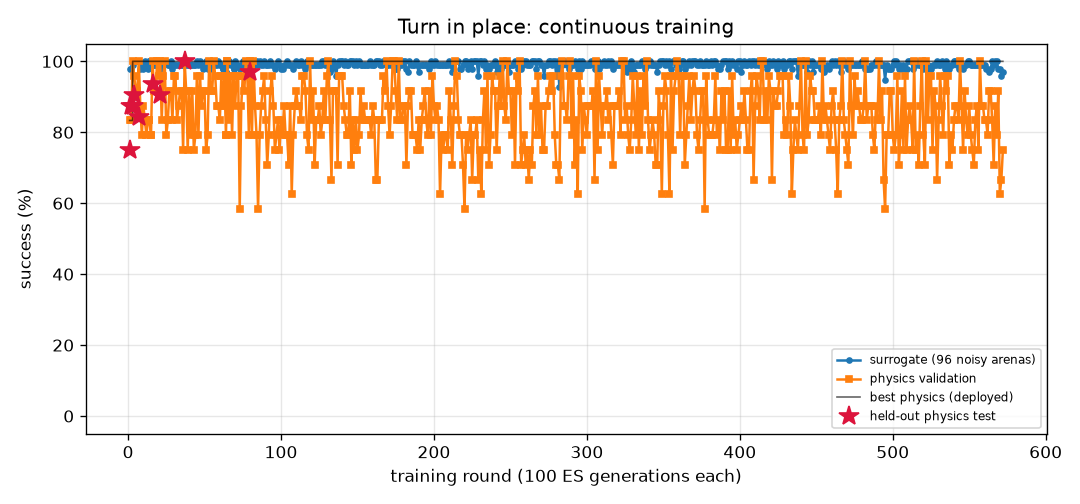
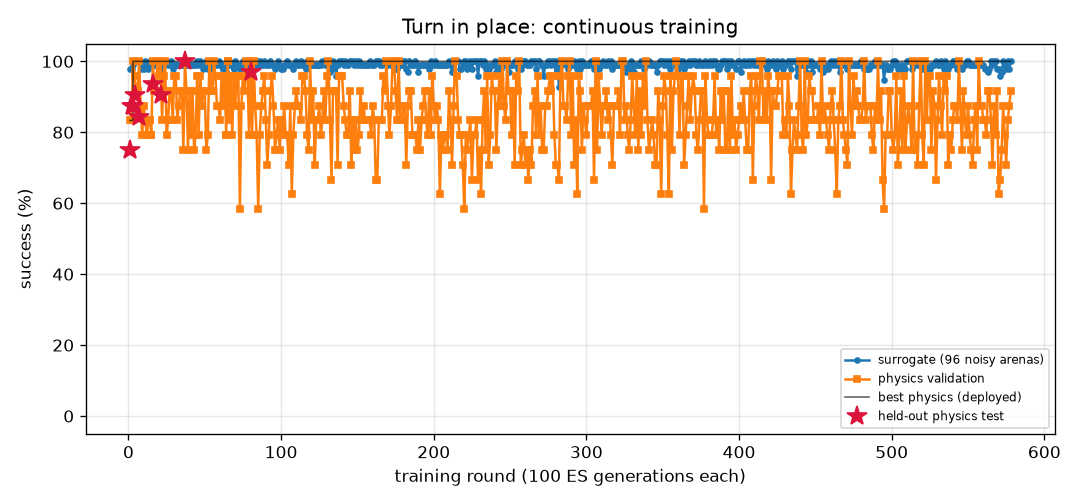
FlyLab: continuous training progress
- walk_forward: optimal, physics val 100% of 24, round 145
- turn: optimal, physics val 100% of 24, round 578
- goto: optimal, physics val 100% of 24, round 132
- odor_seek: optimal, physics val 100% of 24, round 123
- odor_avoid: optimal, physics val 100% of 24, round 560
- light_seek: optimal, physics val 100% of 24, round 316
- light_avoid: optimal, physics val 100% of 24, round 292

diff --git a/projects/09_flylab/training/turn/REPORT.md b/projects/09_flylab/training/turn/REPORT.md
@@ -1,14 +1,14 @@
 # Turn in place (`turn`) — training report
 
-*Auto-generated by `train_brains.py`, last updated 2026-10-20T16:01:26.*
+*Auto-generated by `train_brains.py`, last updated 2026-10-20T19:19:42.*
 
 ![curve](curve.png)
 
 | | |
 |---|---|
-| rounds | 572 |
-| ES generations | 57200 |
-| physics runs | 13974 |
+| rounds | 578 |
+| ES generations | 57800 |
+| physics runs | 14118 |
 | status | **optimal** |
 | best brain | round 80: physics validation **100%** on 24 arenas, surrogate 100% |
 | held-out physics test | **97%** on 32 unseen arenas (95% CI 84%-99%) (errors: [1.6, 3.3, 6.3, 3.7, 1.1, 0.4, 2.4, 2.9, 0.1, 2.6, 0.5, 2.7, 1.5, 3.1, 4.5, 0.2, 0.5, 1.1, 2.0, 4.4, 2.8, 3.2, 0.3, 2.2, 0.5, 3.0, 0.3, 5.4, 0.4, 1.0, 4.7, 10.7]) |
@@ -17,12 +17,6 @@ Physics error per arena: deg from target heading (< 20 = success).
 
 | round | level | gens | sigma | surrogate | physics val | val errors | test | note |
 |---:|---:|---:|---:|---:|---:|---|---:|---|
-| 533 | 3 | 53300 | 0.024 | 99% | 79% | [5.1, 3.1, 2.2, 1.6, 2.3, 2.9, 5.5, 8.7, 4.7, 13.9, 4.5, 1.3, 0.3, 2.6, 4.9, 0.1, 0.5, 2.2, 0.2, 0.3, 6.0, 5.1, 6.1, 6.6] |  |  |
-| 534 | 3 | 53400 | 0.025 | 98% | 96% | [9.8, 10.5, 4.6, 5.7, 4.6, 0.0, 1.8, 1.0, 1.3, 2.3, 1.5, 3.1, 0.2, 2.9, 1.8, 5.1, 3.2, 2.7, 3.3, 3.5, 8.6, 1.0, 0.6, 7.2] |  |  |
-| 535 | 3 | 53500 | 0.025 | 100% | 92% | [3.4, 6.8, 1.5, 0.7, 0.6, 1.9, 4.6, 0.3, 3.7, 0.1, 2.8, 0.7, 0.8, 3.8, 2.6, 0.0, 0.5, 1.4, 0.1, 0.9, 3.1, 2.1, 2.8, 2.6] |  |  |
-| 536 | 3 | 53600 | 0.024 | 99% | 96% | [5.5, 2.8, 1.7, 1.2, 15.9, 14.3, 2.8, 7.4, 6.2, 9.6, 3.8, 0.2, 1.3, 1.5, 3.4, 13.3, 0.1, 4.3, 13.2, 13.0, 3.0, 2.1, 5.4, 3.9] |  | restart from best |
-| 537 | 3 | 53700 | 0.024 | 98% | 71% | [8.8, 9.6, 6.6, 2.9, 1.5, 2.7, 4.9, 0.0, 3.5, 0.1, 2.7, 3.3, 2.5, 4.2, 3.1, 0.3, 1.7, 0.0, 1.4, 1.1, 101.2, 0.1, 3.3, 3.0] |  |  |
-| 538 | 3 | 53800 | 0.025 | 99% | 79% | [5.9, 4.0, 4.1, 0.8, 0.8, 0.6, 4.6, 6.2, 4.8, 1.0, 4.4, 1.7, 0.8, 2.7, 5.8, 2.5, 1.1, 1.4, 0.8, 0.1, 2.3, 0.1, 4.7, 4.9] |  |  |
 | 539 | 3 | 53900 | 0.025 | 99% | 75% | [3.4, 8.3, 5.6, 1.1, 2.0, 2.6, 4.8, 3.9, 3.4, 1.0, 4.2, 0.9, 1.8, 1.4, 4.2, 1.5, 1.2, 0.2, 0.7, 0.8, 5.2, 2.1, 3.7, 3.9] |  |  |
 | 540 | 3 | 54000 | 0.025 | 100% | 83% | [2.4, 3.4, 6.3, 1.3, 2.4, 0.9, 7.5, 5.6, 8.3, 1.4, 5.9, 3.2, 0.6, 0.7, 6.0, 4.4, 3.4, 5.7, 3.6, 3.6, 1.4, 2.3, 7.0, 3.3] |  | restart from best |
 | 541 | 3 | 54100 | 0.024 | 100% | 88% | [2.4, 7.1, 5.8, 4.2, 1.1, 1.3, 3.2, 2.9, 5.9, 0.4, 4.2, 0.1, 1.7, 1.9, 2.3, 0.7, 0.4, 0.3, 0.3, 1.3, 3.5, 0.4, 5.9, 1.4] |  |  |
@@ -57,3 +51,9 @@ Physics error per arena: deg from target heading (< 20 = success).
 | 570 | 3 | 57000 | 0.025 | 98% | 62% | [9.3, 11.3, 4.1, 3.0, 7.2, 0.1, 2.7, 4.0, 2.0, 0.1, 3.3, 3.4, 1.5, 5.6, 2.4, 2.9, 3.8, 0.1, 0.4, 0.0, 7.5, 0.2, 1.7, 5.8] |  |  |
 | 571 | 3 | 57100 | 0.025 | 96% | 67% | [7.9, 9.6, 1.4, 0.6, 0.3, 112.2, 1.6, 5.4, 0.9, 0.5, 3.2, 3.3, 1.3, 5.1, 2.8, 2.1, 5.0, 0.4, 2.1, 1.3, 9.3, 1.5, 3.9, 11.0] |  |  |
 | 572 | 3 | 57200 | 0.026 | 97% | 75% | [0.6, 7.0, 9.5, 0.7, 0.7, 2.2, 8.4, 10.4, 8.8, 1.9, 7.9, 5.3, 1.2, 0.2, 7.5, 4.2, 5.2, 5.5, 5.5, 4.9, 0.5, 1.0, 9.1, 7.7] |  | restart from best |
+| 573 | 3 | 57300 | 0.024 | 100% | 88% | [0.5, 8.4, 0.9, 2.4, 2.1, 3.1, 3.0, 2.3, 4.2, 0.9, 3.6, 0.5, 1.2, 3.1, 2.4, 0.1, 0.5, 0.1, 0.5, 0.0, 6.7, 0.5, 3.0, 4.6] |  |  |
+| 574 | 3 | 57400 | 0.024 | 99% | 79% | [5.7, 4.7, 4.6, 0.7, 3.0, 1.4, 6.1, 5.8, 6.9, 0.4, 5.0, 0.4, 0.2, 2.0, 4.3, 0.2, 1.0, 1.7, 0.6, 0.7, 1.9, 0.5, 7.0, 5.3] |  |  |
+| 575 | 3 | 57500 | 0.025 | 98% | 71% | [3.8, 2.9, 3.3, 3.6, 1.3, 2.3, 7.2, 9.3, 5.6, 1.8, 5.8, 1.1, 3.4, 2.7, 5.7, 0.5, 1.7, 1.9, 1.0, 1.4, 4.1, 3.4, 6.7, 8.3] |  |  |
+| 576 | 3 | 57600 | 0.025 | 100% | 83% | [5.9, 1.4, 3.8, 0.0, 4.7, 15.7, 7.4, 9.9, 7.7, 14.5, 5.7, 2.7, 0.6, 2.1, 5.2, 1.8, 3.0, 2.6, 3.5, 1.2, 4.0, 0.2, 6.7, 5.4] |  | restart from best |
+| 577 | 3 | 57700 | 0.024 | 98% | 88% | [4.5, 4.3, 3.9, 2.2, 2.3, 5.3, 5.9, 1.8, 4.2, 4.7, 5.4, 0.4, 1.7, 1.7, 4.8, 2.9, 0.0, 1.6, 5.5, 2.0, 6.2, 1.6, 6.8, 5.8] |  |  |
+| 578 | 3 | 57800 | 0.025 | 100% | 92% | [2.1, 3.1, 5.1, 3.0, 1.1, 2.2, 6.6, 6.8, 6.6, 1.8, 4.3, 0.7, 1.8, 0.7, 4.7, 3.0, 0.7, 2.6, 1.7, 3.2, 3.0, 1.1, 5.9, 1.3] |  |  |

diff --git a/projects/09_flylab/training/odor_seek/REPORT.md b/projects/09_flylab/training/odor_seek/REPORT.md
@@ -1,14 +1,14 @@
 # Find food by smell (`odor_seek`) — training report
 
-*Auto-generated by `train_brains.py`, last updated 2026-10-20T15:33:31.*
+*Auto-generated by `train_brains.py`, last updated 2026-10-20T19:08:11.*
 
 ![curve](curve.png)
 
 | | |
 |---|---|
-| rounds | 119 |
-| ES generations | 11900 |
-| physics runs | 2222 |
+| rounds | 123 |
+| ES generations | 12300 |
+| physics runs | 2318 |
 | status | **optimal** |
 | best brain | round 99: physics validation **100%** on 24 arenas, surrogate 100% |
 | held-out physics test | **100%** on 32 unseen arenas (95% CI 89%-100%) (errors: [0.16, 0.18, 0.15, 0.21, 0.19, 0.16, 0.21, 0.2, 0.2, 0.18, 0.15, 0.18, 0.15, 0.2, 0.18, 0.19, 0.13, 0.16, 0.2, 0.2, 0.21, 0.15, 0.2, 0.17, 0.19, 0.25, 0.15, 0.19, 0.26, 0.16, 0.2, 0.26]) |
@@ -17,10 +17,6 @@ Physics error per arena: mm from target at the end (< 1.5 and standing still = s
 
 | round | level | gens | sigma | surrogate | physics val | val errors | test | note |
 |---:|---:|---:|---:|---:|---:|---|---:|---|
-| 80 | 3 | 8000 | 0.024 | 100% | 100% | [0.07, 0.12, 0.18, 0.19, 0.18, 0.1, 0.14, 0.13, 0.16, 0.14, 0.22, 0.1, 0.19, 0.23, 0.14, 0.24, 0.14, 0.16, 0.23, 0.2, 0.09, 0.21, 0.26, 0.17] |  |  |
-| 81 | 3 | 8100 | 0.024 | 100% | 100% | [0.15, 0.18, 0.25, 0.2, 0.28, 0.19, 0.15, 0.14, 0.27, 0.25, 0.18, 0.25, 0.29, 0.23, 0.21, 0.19, 0.21, 0.29, 0.25, 0.26, 0.22, 0.2, 0.3, 0.17] |  |  |
-| 82 | 3 | 8200 | 0.024 | 100% | 100% | [0.25, 0.23, 0.28, 0.29, 0.26, 0.28, 0.19, 0.19, 0.3, 0.19, 0.27, 0.2, 0.27, 0.3, 0.23, 0.25, 0.28, 0.26, 0.25, 0.21, 0.28, 0.21, 0.26, 0.29] |  |  |
-| 83 | 3 | 8300 | 0.024 | 100% | 100% | [0.28, 0.27, 0.24, 0.3, 0.23, 0.23, 0.21, 0.2, 0.17, 0.26, 0.18, 0.33, 0.21, 0.22, 0.21, 0.22, 0.26, 0.22, 0.22, 0.26, 0.24, 0.23, 0.22, 0.26] |  | restart from best |
 | 84 | 3 | 8400 | 0.024 | 100% | 100% | [0.24, 0.24, 0.21, 0.24, 0.21, 0.27, 0.14, 0.19, 0.21, 0.27, 0.2, 0.22, 0.21, 0.22, 0.22, 0.2, 0.21, 0.23, 0.2, 0.31, 0.27, 0.24, 0.22, 0.18] |  |  |
 | 85 | 3 | 8500 | 0.024 | 100% | 100% | [0.27, 0.17, 0.21, 0.23, 0.25, 0.21, 0.24, 0.13, 0.11, 0.17, 0.23, 0.17, 0.32, 0.27, 0.22, 0.27, 0.2, 0.21, 0.31, 0.23, 0.22, 0.18, 0.3, 0.24] |  |  |
 | 86 | 3 | 8600 | 0.024 | 100% | 100% | [0.29, 0.3, 0.27, 0.3, 0.25, 0.31, 0.27, 0.29, 0.3, 0.23, 0.29, 0.28, 0.32, 0.27, 0.29, 0.29, 0.29, 0.25, 0.31, 0.3, 0.28, 0.31, 0.3, 0.33] |  |  |
@@ -57,3 +53,7 @@ Physics error per arena: mm from target at the end (< 1.5 and standing still = s
 | 117 | 3 | 11700 | 0.024 | 100% | 100% | [0.22, 0.25, 0.27, 0.24, 0.26, 0.24, 0.25, 0.23, 0.29, 0.25, 0.22, 0.25, 0.25, 0.27, 0.28, 0.27, 0.22, 0.22, 0.25, 0.22, 0.2, 0.25, 0.27, 0.23] |  |  |
 | 118 | 3 | 11800 | 0.024 | 100% | 100% | [0.24, 0.25, 0.26, 0.24, 0.27, 0.24, 0.33, 0.24, 0.26, 0.25, 0.26, 0.31, 0.27, 0.31, 0.27, 0.28, 0.29, 0.31, 0.28, 0.24, 0.25, 0.28, 0.31, 0.29] |  |  |
 | 119 | 3 | 11900 | 0.024 | 100% | 100% | [0.3, 0.27, 0.27, 0.23, 0.25, 0.27, 0.3, 0.27, 0.31, 0.24, 0.25, 0.21, 0.21, 0.29, 0.25, 0.23, 0.27, 0.21, 0.28, 0.24, 0.28, 0.21, 0.23, 0.26] |  | restart from best |
+| 120 | 3 | 12000 | 0.024 | 100% | 100% | [0.25, 0.26, 0.18, 0.23, 0.27, 0.23, 0.26, 0.31, 0.16, 0.22, 0.26, 0.29, 0.23, 0.25, 0.21, 0.26, 0.27, 0.26, 0.24, 0.21, 0.26, 0.17, 0.22, 0.3] |  |  |
+| 121 | 3 | 12100 | 0.024 | 100% | 100% | [0.27, 0.31, 0.22, 0.25, 0.22, 0.23, 0.19, 0.17, 0.27, 0.22, 0.21, 0.24, 0.23, 0.28, 0.2, 0.3, 0.25, 0.27, 0.21, 0.26, 0.25, 0.24, 0.16, 0.21] |  |  |
+| 122 | 3 | 12200 | 0.024 | 100% | 100% | [0.26, 0.22, 0.29, 0.29, 0.22, 0.32, 0.23, 0.23, 0.27, 0.25, 0.24, 0.21, 0.29, 0.28, 0.22, 0.3, 0.3, 0.24, 0.21, 0.26, 0.36, 0.22, 0.32, 0.25] |  |  |
+| 123 | 3 | 12300 | 0.024 | 100% | 100% | [0.18, 0.26, 0.26, 0.2, 0.28, 0.24, 0.23, 0.2, 0.26, 0.29, 0.22, 0.26, 0.26, 0.3, 0.2, 0.31, 0.32, 0.27, 0.27, 0.22, 0.31, 0.25, 0.19, 0.29] |  | restart from best |

diff --git a/projects/09_flylab/training/walk_forward/REPORT.md b/projects/09_flylab/training/walk_forward/REPORT.md
@@ -1,14 +1,14 @@
 # Walk forward (`walk_forward`) — training report
 
-*Auto-generated by `train_brains.py`, last updated 2026-10-20T18:19:25.*
+*Auto-generated by `train_brains.py`, last updated 2026-10-20T18:43:12.*
 
 ![curve](curve.png)
 
 | | |
 |---|---|
-| rounds | 142 |
-| ES generations | 14200 |
-| physics runs | 3422 |
+| rounds | 145 |
+| ES generations | 14500 |
+| physics runs | 3494 |
 | status | **optimal** |
 | best brain | round 116: physics validation **100%** on 24 arenas, surrogate 100% |
 | held-out physics test | **100%** on 32 unseen arenas (95% CI 89%-100%) (errors: [0.13, 0.16, 0.19, 0.16, 0.15, 0.2, 0.17, 0.18, 0.17, 0.19, 0.2, 0.14, 0.17, 0.19, 0.2, 0.2, 0.13, 0.19, 0.16, 0.2, 0.2, 0.16, 0.17, 0.2, 0.13, 0.15, 0.18, 0.14, 0.16, 0.15, 0.19, 0.12]) |
@@ -17,9 +17,6 @@ Physics error per arena: mm from target at the end (< 1.5 and standing still = s
 
 | round | level | gens | sigma | surrogate | physics val | val errors | test | note |
 |---:|---:|---:|---:|---:|---:|---|---:|---|
-| 103 | 3 | 10300 | 0.024 | 99% | 100% | [0.24, 0.32, 0.26, 0.25, 0.31, 0.26, 0.32, 0.04, 0.32, 0.31, 0.27, 0.3, 0.23, 0.26, 0.27, 0.31, 0.24, 0.31, 0.23, 0.29, 0.23, 0.31, 0.29, 0.23] |  | restart from best |
-| 104 | 3 | 10400 | 0.024 | 100% | 100% | [0.17, 0.25, 0.22, 0.16, 0.26, 0.22, 0.26, 0.18, 0.25, 0.29, 0.23, 0.28, 0.19, 0.22, 0.17, 0.28, 0.17, 0.22, 0.19, 0.19, 0.17, 0.29, 0.28, 0.19] |  |  |
-| 105 | 3 | 10500 | 0.024 | 100% | 100% | [0.09, 0.18, 0.21, 0.07, 0.18, 0.21, 0.19, 0.18, 0.18, 0.26, 0.22, 0.26, 0.19, 0.21, 0.14, 0.26, 0.15, 0.17, 0.18, 0.14, 0.17, 0.26, 0.26, 0.18] |  |  |
 | 106 | 3 | 10600 | 0.024 | 100% | 100% | [0.19, 0.17, 0.18, 0.19, 0.17, 0.17, 0.17, 0.19, 0.17, 0.18, 0.17, 0.2, 0.19, 0.17, 0.19, 0.19, 0.19, 0.18, 0.19, 0.18, 0.19, 0.18, 0.21, 0.18] | 100% | new best |
 | 107 | 3 | 10700 | 0.024 | 99% | 96% | [0.11, 0.23, 0.34, 0.1, 0.14, 0.04, 0.25, 0.07, 0.14, 0.2, 0.06, 0.22, 0.06, 0.12, 0.08, 0.31, 0.08, 0.11, 0.06, 0.09, 0.06, 0.3, 0.32, 0.06] |  |  |
 | 108 | 3 | 10800 | 0.025 | 100% | 100% | [0.13, 0.19, 0.1, 0.13, 0.19, 0.1, 0.13, 0.11, 0.16, 0.19, 0.09, 0.14, 0.06, 0.06, 0.14, 0.19, 0.1, 0.09, 0.09, 0.17, 0.13, 0.22, 0.18, 0.06] |  |  |
@@ -57,3 +54,6 @@ Physics error per arena: mm from target at the end (< 1.5 and standing still = s
 | 140 | 3 | 14000 | 0.025 | 100% | 100% | [0.2, 0.26, 0.08, 0.2, 0.25, 0.08, 0.25, 0.17, 0.25, 0.26, 0.07, 0.24, 0.16, 0.07, 0.22, 0.25, 0.18, 0.25, 0.16, 0.23, 0.17, 0.25, 0.23, 0.16] |  | restart from best |
 | 141 | 3 | 14100 | 0.024 | 100% | 96% | [0.21, 0.22, 0.15, 0.21, 0.22, 0.03, 0.22, 0.18, 0.22, 0.2, 0.08, 0.07, 0.17, 0.08, 0.21, 0.12, 0.2, 0.22, 0.18, 0.22, 0.2, 0.18, 0.15, 0.18] |  |  |
 | 142 | 3 | 14200 | 0.024 | 100% | 100% | [0.28, 0.26, 0.32, 0.28, 0.26, 0.32, 0.26, 0.32, 0.26, 0.23, 0.31, 0.23, 0.32, 0.32, 0.28, 0.23, 0.29, 0.26, 0.32, 0.28, 0.31, 0.23, 0.22, 0.32] |  |  |
+| 143 | 3 | 14300 | 0.024 | 100% | 100% | [0.5, 0.48, 0.51, 0.51, 0.47, 0.5, 0.48, 0.51, 0.48, 0.46, 0.5, 0.45, 0.51, 0.51, 0.5, 0.46, 0.51, 0.48, 0.52, 0.5, 0.51, 0.46, 0.45, 0.51] |  |  |
+| 144 | 3 | 14400 | 0.024 | 100% | 100% | [0.19, 0.27, 0.19, 0.19, 0.27, 0.21, 0.28, 0.18, 0.27, 0.29, 0.2, 0.28, 0.19, 0.2, 0.21, 0.29, 0.19, 0.25, 0.19, 0.22, 0.18, 0.29, 0.28, 0.19] |  | restart from best |
+| 145 | 3 | 14500 | 0.024 | 100% | 100% | [0.2, 0.21, 0.15, 0.2, 0.2, 0.15, 0.2, 0.17, 0.2, 0.2, 0.14, 0.1, 0.17, 0.15, 0.2, 0.12, 0.19, 0.21, 0.17, 0.21, 0.18, 0.19, 0.13, 0.17] |  |  |

diff --git a/projects/09_flylab/training/TRAINING.md b/projects/09_flylab/training/TRAINING.md
@@ -1,15 +1,15 @@
 # FlyLab brains — continuous training log
 
-*Auto-generated by `train_brains.py`, last updated 2026-10-20T18:19:25.*
+*Auto-generated by `train_brains.py`, last updated 2026-10-20T19:19:42.*
 
 Every skill has its own brain and its own training process: surrogate ES rounds, physics validation in MuJoCo, keep-the-best selection, and a held-out physics test that is never used for selection. See each skill's report for its full round-by-round history. Mastery is progressive: passing a level (100% physics validation, >=95% surrogate) doubles the validation and test arena sets; a brain is **optimal** once it holds up at level 3 (>=95% of 24 validation arenas) AND scores >=90% on the 32 held-out test arenas. Test columns show 95% Wilson confidence intervals.
 
 | skill | rounds | ES generations | physics runs | surrogate | physics val | **physics test** | status |
 |---|---:|---:|---:|---:|---:|---:|---|
-| [Walk forward](walk_forward/REPORT.md) | 142 | 14200 | 3422 | 100% | 100% of 24 | 100% of 32 (CI 89-100%) | **optimal** |
-| [Turn in place](turn/REPORT.md) | 572 | 57200 | 13974 | 100% | 100% of 24 | 97% of 32 (CI 84-99%) | **optimal** |
+| [Walk forward](walk_forward/REPORT.md) | 145 | 14500 | 3494 | 100% | 100% of 24 | 100% of 32 (CI 89-100%) | **optimal** |
+| [Turn in place](turn/REPORT.md) | 578 | 57800 | 14118 | 100% | 100% of 24 | 97% of 32 (CI 84-99%) | **optimal** |
 | [Go to a location](goto/REPORT.md) | 132 | 13200 | 3054 | 100% | 100% of 24 | 100% of 32 (CI 89-100%) | **optimal** |
-| [Find food by smell](odor_seek/REPORT.md) | 119 | 11900 | 2222 | 100% | 100% of 24 | 100% of 32 (CI 89-100%) | **optimal** |
+| [Find food by smell](odor_seek/REPORT.md) | 123 | 12300 | 2318 | 100% | 100% of 24 | 100% of 32 (CI 89-100%) | **optimal** |
 | [Escape a bad smell](odor_avoid/REPORT.md) | 560 | 56000 | 10746 | 97% | 100% of 24 | 97% of 32 (CI 84-99%) | **optimal** |
 | [Walk toward light](light_seek/REPORT.md) | 316 | 31600 | 4432 | 100% | 100% of 24 | 100% of 32 (CI 89-100%) | **optimal** |
 | [Hide from light](light_avoid/REPORT.md) | 292 | 29200 | 7280 | 100% | 100% of 24 | 100% of 32 (CI 89-100%) | **optimal** |
